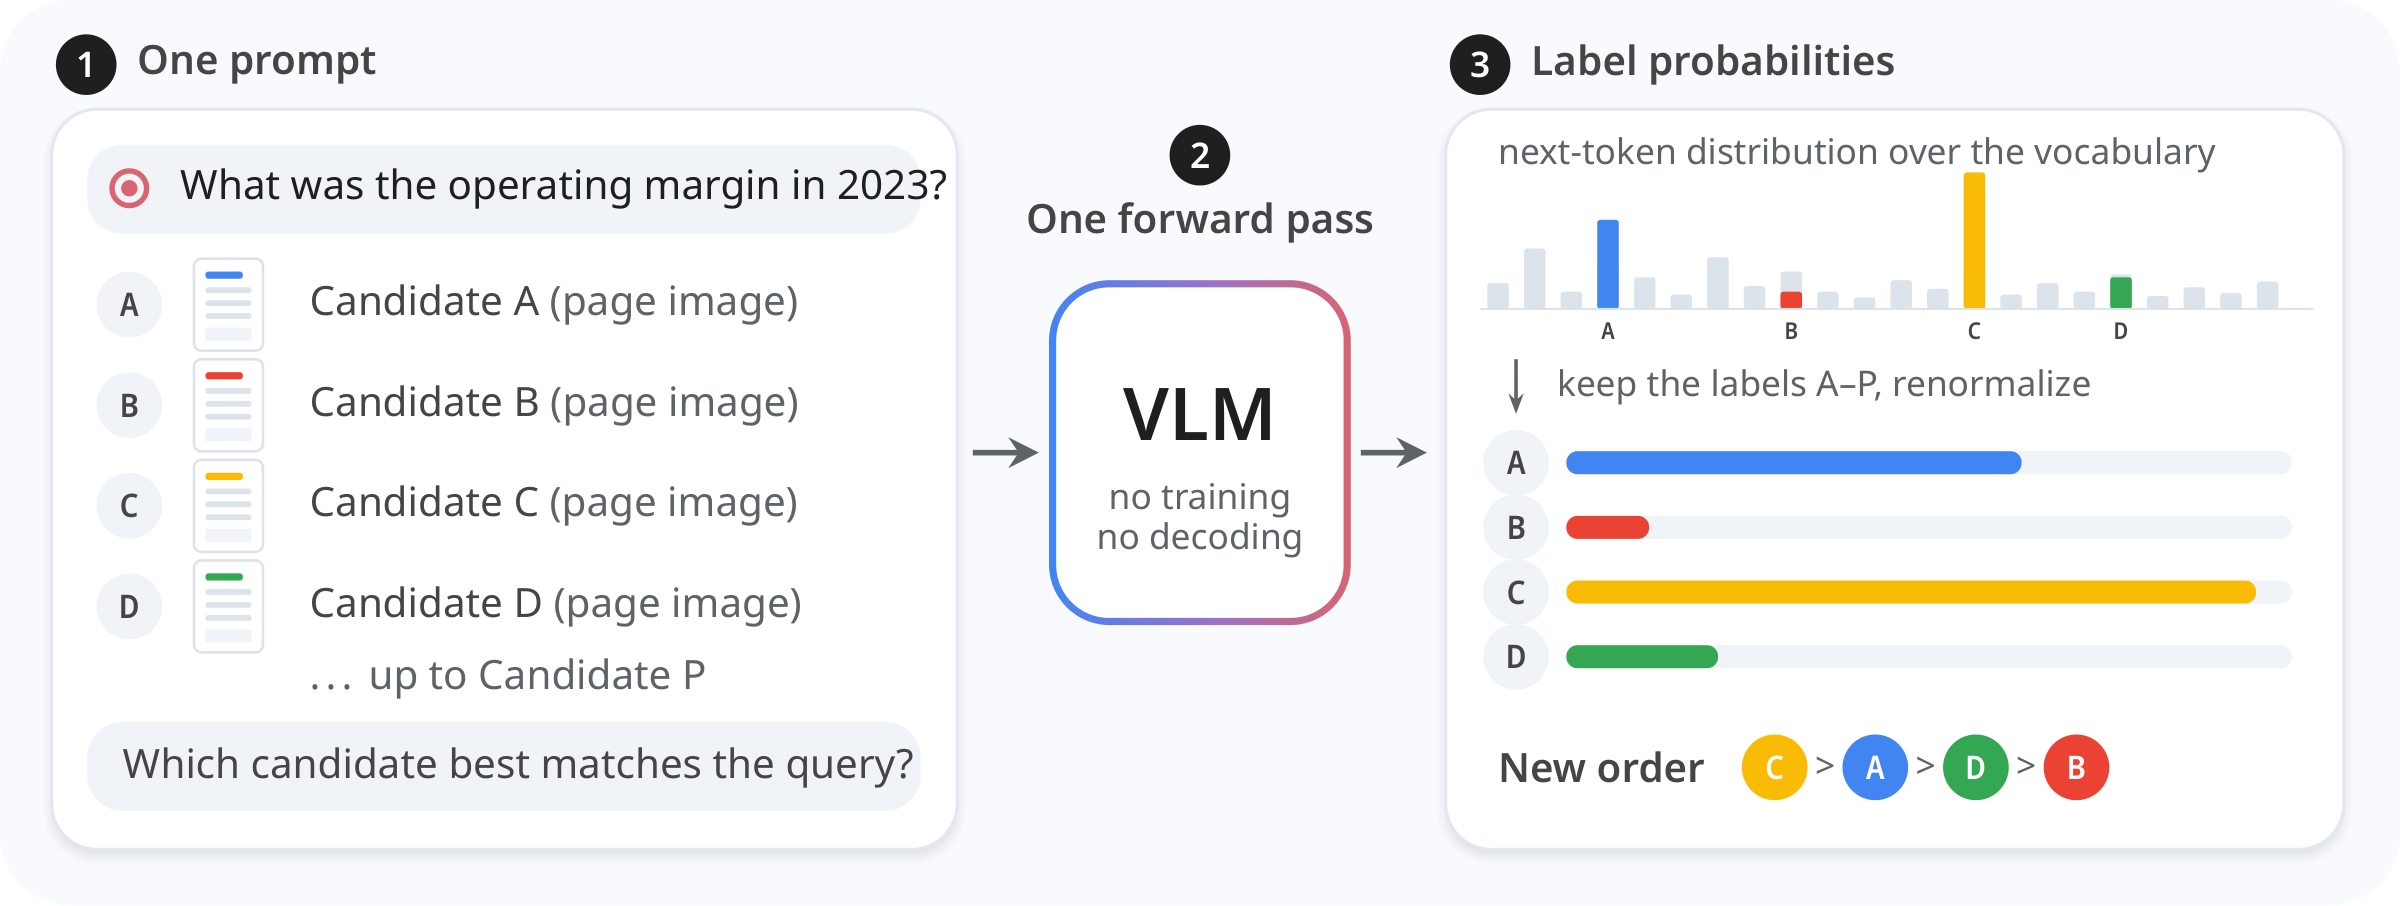
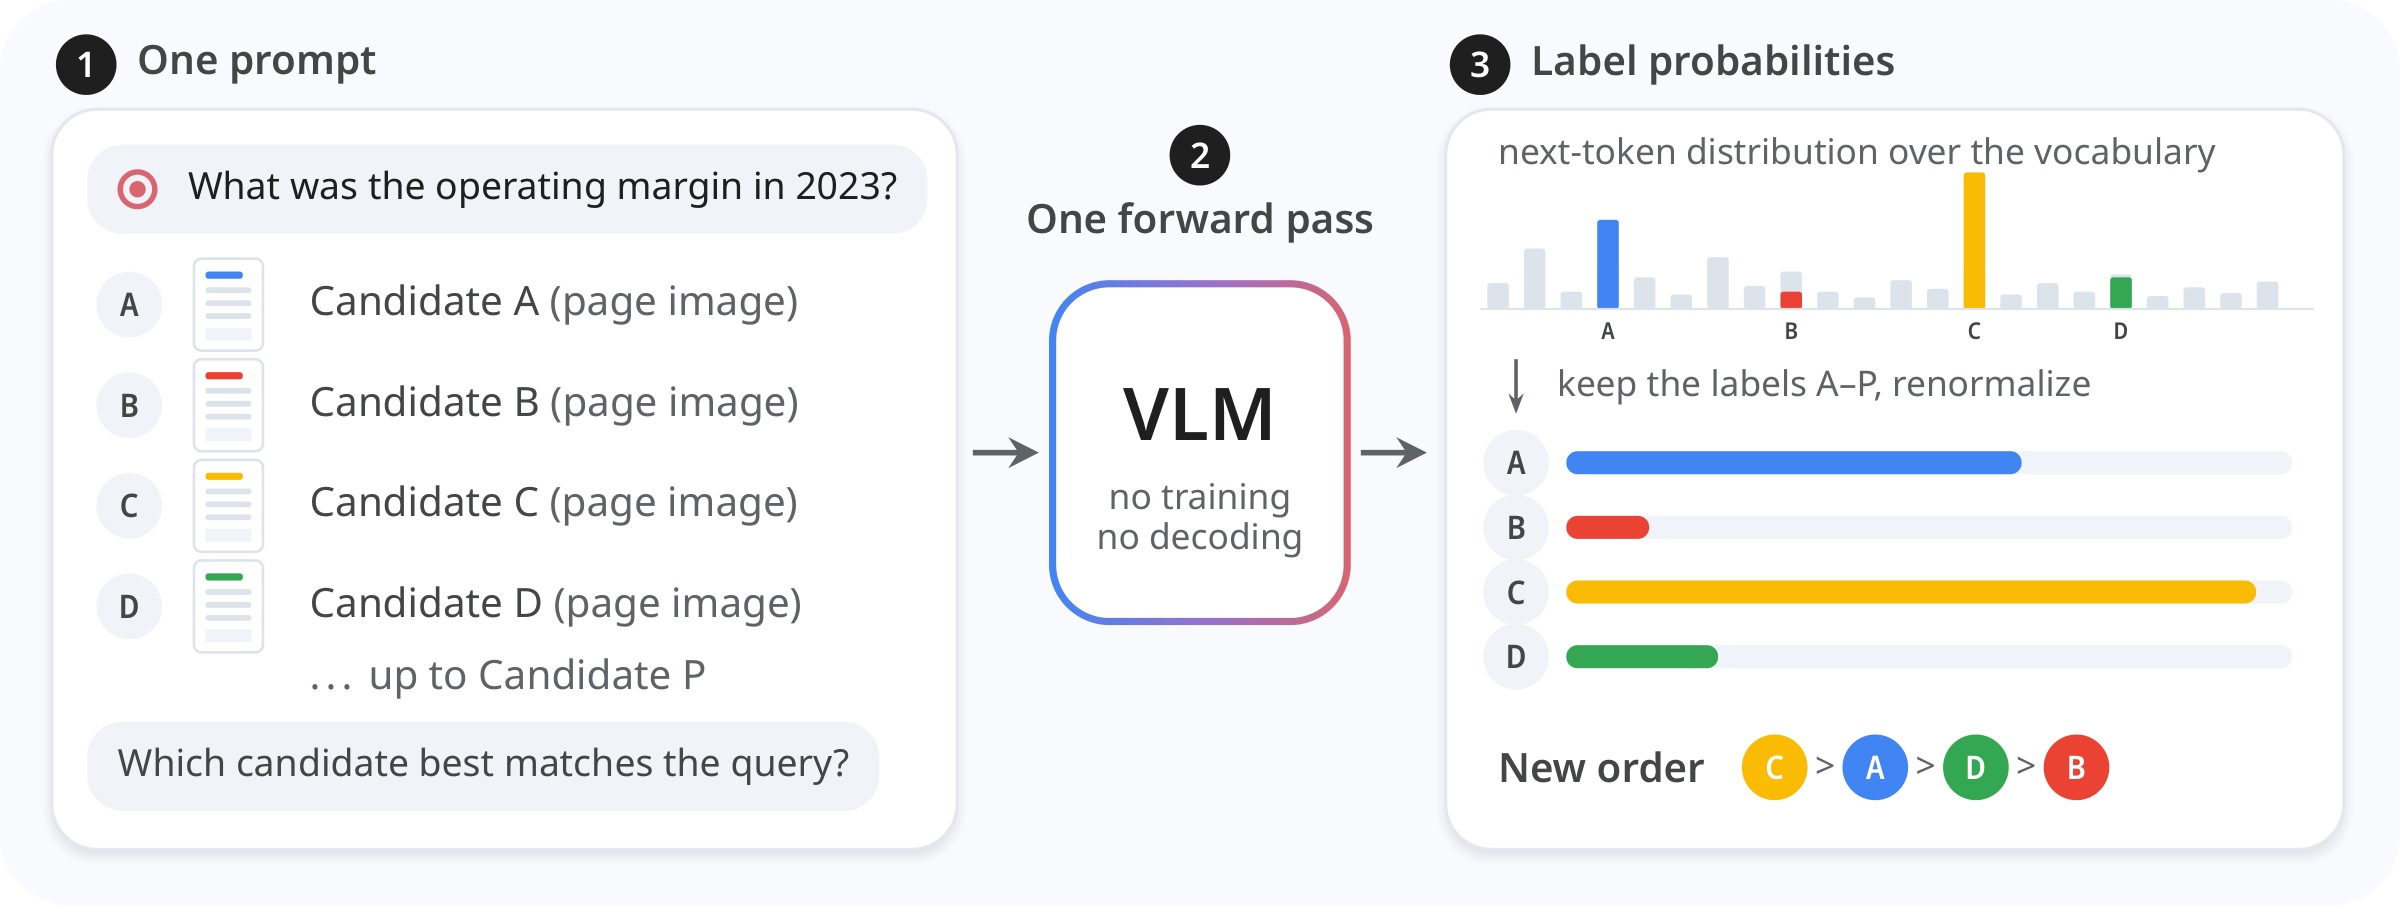
JEV-27B-VL is a Jev-style decision model: label it apart from VLM-as-Jev; figure chips fit their card

Changed region(s): [[0.0312, 0.1854, 0.4062, 0.2472], [0.0312, 0.8344, 0.375, 0.8653]]

diff --git a/assets/src/how_it_works.tex b/assets/src/how_it_works.tex
@@ -13,7 +13,7 @@
     font=\sffamily\small, text=jevink,
     card/.style={fill=white, draw=jevline2, line width=0.6pt, rounded corners=9pt,
                  blur shadow={shadow blur steps=8, shadow xshift=0pt, shadow yshift=-1.2pt, shadow opacity=12}},
-    chip/.style={fill=jevfill, rounded corners=7pt, inner sep=0pt},
+    chip/.style={fill=jevfill, rounded corners=7pt, inner ysep=0pt},
     lab/.style={circle, minimum size=13pt, inner sep=0pt, font=\notomono\scriptsize\semib},
     steptitle/.style={font=\sffamily\footnotesize\semib, text=jevmuted},
     num/.style={circle, fill=jevink, text=white, minimum size=12pt, inner sep=0pt, font=\sffamily\scriptsize\semib},
@@ -27,9 +27,8 @@
   \node[steptitle, anchor=west] at (0.48,6.05) {One prompt};
   \node[card, minimum width=6.3cm, minimum height=5.15cm, anchor=north west] (p) at (0,5.75) {};
   % query chip
-  \node[chip, minimum width=5.8cm, minimum height=0.62cm, anchor=north west] (q) at (0.25,5.5) {};
-  \node[anchor=center] at (0.55,5.19) {\jevtarget{9pt}};
-  \node[anchor=west, font=\sffamily\footnotesize] at (0.78,5.19) {What was the operating margin in 2023?};
+  \node[chip, anchor=north west, minimum height=0.62cm, inner xsep=6pt, font=\sffamily\fontsize{7.4}{9}\selectfont] (q) at (0.25,5.5)
+       {\jevtarget{9pt}\hspace{6pt}What was the operating margin in 2023?};
   % candidates: label, page thumbnail, name
   \foreach \L/\c/\y in {A/jevblue/4.38, B/jevred/3.68, C/jevyellow/2.98, D/jevgreen/2.28} {
     \node[lab, fill=jevfill, text=jevmuted] at (0.55,\y) {\L};
@@ -43,9 +42,11 @@
   }
   \node[anchor=west, font=\sffamily\footnotesize, text=jevsubtle] at (1.68,1.78) {\dots\ up to Candidate P};
   % question line
-  \node[chip, minimum width=5.8cm, minimum height=0.62cm, anchor=south west] at (0.25,0.85) {};
-  \node[anchor=west, font=\sffamily\footnotesize, text=jevmuted, align=left] at (0.38,1.16)
-       {Which candidate best matches the query?};
+  \node[chip, anchor=south west, minimum height=0.62cm, inner xsep=6pt, font=\sffamily\fontsize{7.4}{9}\selectfont, text=jevmuted]
+       (qq) at (0.25,0.85) {Which candidate best matches the query?};
+  % report the chips' right edges: both must stay inside the card (right edge 6.3 cm, inner padding 0.25 cm)
+  \path (q.east); \pgfgetlastxy{\qx}{\qy}\typeout{CHIPEAST q=\qx}
+  \path (qq.east); \pgfgetlastxy{\qx}{\qy}\typeout{CHIPEAST qq=\qx}
 
   % ---------------------------------------------------------------- 2. one forward pass
   \node[num] at (8.0,5.42) {2};

diff --git a/tests/test_readme_numbers.py b/tests/test_readme_numbers.py
@@ -34,7 +34,8 @@ def expected(entry):
 
 MAIN_ROWS = {"Qwen3-VL-Embedding-2B (first stage)": "Qwen3-VL-Embedding-2B",
              "Qwen3-VL-Reranker-2B": "Qwen3-VL-Reranker-2B", "Qwen3-VL-Reranker-8B": "Qwen3-VL-Reranker-8B",
-             "Qwen3.8-27B": "VLM-as-Jev, Qwen3.8-27B", "JEV-27B-VL (decision-tuned on text)": "VLM-as-Jev, JEV-27B-VL"}
+             "JEV-27B-VL, decision head": "JEV-27B-VL, decision head", "VLM-as-Jev (Qwen3.8-27B)": "VLM-as-Jev (Qwen3.8-27B)"}
+LISTWISE = {"Qwen3.8-27B": "VLM-as-Jev (Qwen3.8-27B)", "JEV-27B-VL": "JEV-27B-VL, decision head"}
 
 
 def test_main_table():
@@ -51,7 +52,7 @@ def test_readout_table():
     first_stage = expected(MMEB["Qwen3-VL-Embedding-2B"]["image"])
     assert f"the first stage scores {first_stage})" in README
     for backbone, listwise, pointwise in table("| backbone | listwise · 1 prompt |"):
-        assert listwise == expected(MMEB.get(f"VLM-as-Jev, {backbone}", {}).get("image")), backbone
+        assert listwise == expected(MMEB.get(LISTWISE[backbone], {}).get("image")), backbone
         assert pointwise == expected(MMEB.get(f"{backbone}, pointwise", {}).get("image")), backbone
 
 

diff --git a/README.md b/README.md
@@ -54,8 +54,8 @@ r.order, r.scores            # candidate indices, best first; one probability pe
 
 A state or an option is a string, an image, a dict with `"image"` and `"text"`, or a list of these. Images are
 downscaled to 1800 × 32 × 32 pixels. `Decider.yes_no(state, question)` returns the probability of yes, and
-`Reranker(..., readout="pointwise")` uses it per candidate. To use JEV-27B-VL's own decision head, pass
-`JevDecideBackend("http://127.0.0.1:8000")` instead of `ChatBackend`.
+`Reranker(..., readout="pointwise")` uses it per candidate. JEV-27B-VL, a Jev-style decision model on the same
+backbone, can be queried through its own decision head with `JevDecideBackend("http://127.0.0.1:8000")`.
 
 ## Results
 
@@ -68,9 +68,10 @@ budget. "—" marks a run that is still going.
 | *Supervised rerankers* | | | |
 | Qwen3-VL-Reranker-2B | 74.49 | 82.72 | 59.18 |
 | Qwen3-VL-Reranker-8B | 78.36 | 84.78 | — |
-| *Zero-shot, VLM-as-Jev* | | | |
-| Qwen3.8-27B | 76.76 | — | — |
-| JEV-27B-VL (decision-tuned on text) | 76.80 | 85.42 | — |
+| *Jev-style decision model* | | | |
+| JEV-27B-VL, decision head | 76.80 | 85.42 | — |
+| *Ours, zero-shot* | | | |
+| **VLM-as-Jev** (Qwen3.8-27B) | 76.76 | — | — |
 
 <sub>ViDoRe V3 pools its six languages within each dataset.</sub>
 
@@ -94,8 +95,8 @@ the 16 pairs one after another; the 27B models run on vLLM 0.30.0.
 |:--|:--:|:--:|
 | Qwen3-VL-Reranker-2B | 16 | 2.75 |
 | Qwen3-VL-Reranker-8B | 16 | 3.67 |
-| VLM-as-Jev, Qwen3.8-27B | 1 | 3.97 |
-| VLM-as-Jev, JEV-27B-VL | 1 | 4.48 |
+| VLM-as-Jev (Qwen3.8-27B) | 1 | 3.97 |
+| JEV-27B-VL, decision head | 1 | 4.48 |
 | Qwen3.8-27B, pointwise | 16 | 3.10 |
 | JEV-27B-VL, pointwise | 16 | 3.57 |
 

diff --git a/docs/reproduce.md b/docs/reproduce.md
@@ -93,8 +93,8 @@ have not compared its numbers with these.
 
 | report | `--backend` | `--model` | `--readout` |
 |---|---|---|---|
-| VLM-as-Jev, Qwen3.8-27B | `chat` | `autotrust/JEV-27B-VL` | `listwise` |
-| VLM-as-Jev, JEV-27B-VL | `jev` | | `listwise` |
+| VLM-as-Jev (Qwen3.8-27B) | `chat` | `autotrust/JEV-27B-VL` | `listwise` |
+| JEV-27B-VL, decision head | `jev` | | `listwise` |
 | Qwen3.8-27B, pointwise | `chat` | `autotrust/JEV-27B-VL` | `pointwise` |
 | JEV-27B-VL, pointwise | `jev` | | `pointwise` |
 
